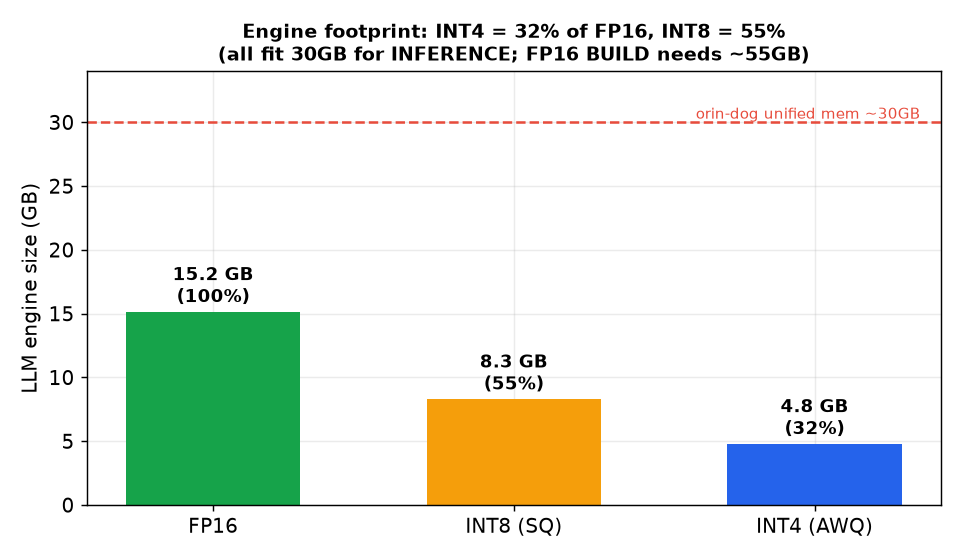
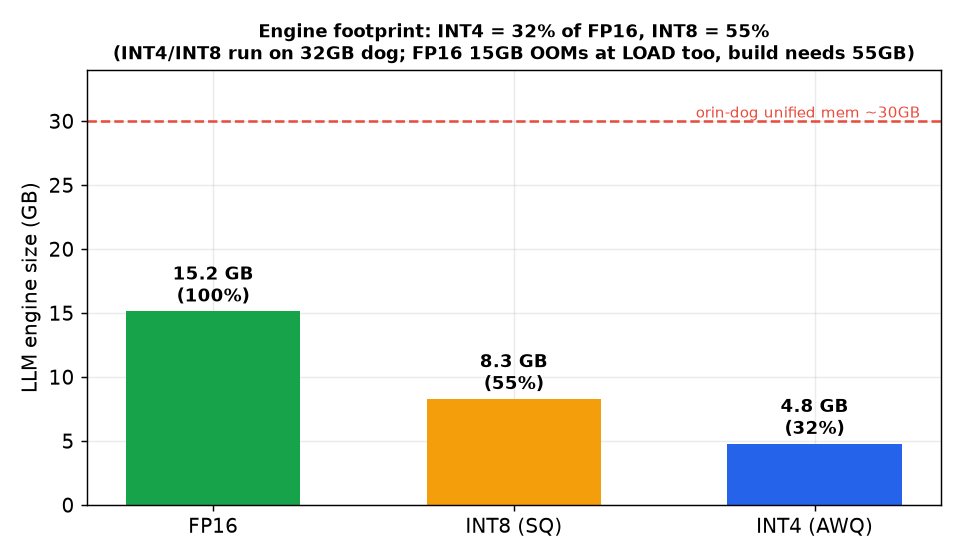
docs/skill: CORRECT FP16-on-dog claim — inference engine (15GB) OOMs at LOAD on 32GB too
Same-LAN goat->dog direct transfer worked (16.4GB, no cap), but FP16 engine deserialize
OOM'd on dog: 15GB device alloc with only ~11GB free (the 15GB engine file's own page cache
eats memory; sudo/drop_caches unavailable). So FP16 is impractical on 32GB dog for BOTH build
(55GB) AND load (~30GB) -> FP16 stays on 64GB goat; dog runs INT4/INT8. Corrected the earlier
'FP16 fits dog inference ~17GB' overclaim across site/edge_deploy/METHODOLOGY/goat_plan/skill +
footprint figure. Strengthens 'quantization is the only deployable option on 32GB'.

diff --git a/alpamayo-edge/site/index.html b/alpamayo-edge/site/index.html
@@ -76,7 +76,7 @@ footer a{color:var(--accent)}
   <p>把 NVIDIA <strong>Cosmos-Reason2-8B</strong>（物理场景推理 VLM，非轨迹预测器，属"感知 + 推理 / 可解释"层）用 <strong>TensorRT-Edge-LLM</strong> 量化为 <strong>INT4 (AWQ)</strong> 与 <strong>INT8 (SmoothQuant)</strong>，部署到 <strong>Jetson Orin (sm_87)</strong> 端到端跑通推理；按标准服务指标（TTFT / TPOT / TPS / E2E）测性能功耗，并在<strong>官方 Cosmos-Reason1-Benchmark（带标准答案）</strong>实测量化对<strong>任务正确率</strong>的影响。<span style="color:var(--muted)">零预算 · 零训练 · 全 Orin。</span></p>
   <p style="margin-bottom:4px"><strong>核心结论：</strong></p>
   <ol style="margin-top:0">
-    <li><strong>量化既提速又降低部署门槛</strong>：decode 比 FP16 快 <strong>2.66×(INT4)/1.70×(INT8)</strong>、E2E 快 2.5×；且 FP16 引擎 build 期需实测 <strong>~55GB 内存</strong>，32GB Orin 装不下(OOM)、须在 64GB 机 build（引擎再拷回 32GB 跑）。</li>
+    <li><strong>量化既提速又是 32GB 边缘的唯一可部署方案</strong>：decode 比 FP16 快 <strong>2.66×(INT4)/1.70×(INT8)</strong>、E2E 快 2.5×；FP16 在 32GB dog 上 build(峰 55GB)与载入(15GB 引擎+缓存)<strong>双双 OOM</strong>，只能在 64GB goat 跑，dog 部署 INT4/INT8。</li>
     <li><strong>量化无显著正确率损失</strong>：真实基准(n=210)上 FP16 76.2% / INT8 75.2% / INT4 73.8%，差异 <strong>全部统计不显著(McNemar p&gt;0.4、95%CI 重叠)</strong>。即量化在任务正确率上几乎无损。</li>
     <li><strong>选型：decode 看 INT4、prefill 看 INT8</strong>——INT4 decode 快 1.57×/更省电/更省显存(−42%)，INT8 prefill 快 1.9×/能效高 2.3×；生成越长 INT4 的 E2E 越占优。</li>
   </ol>
@@ -112,7 +112,7 @@ footer a{color:var(--accent)}
     <figure><img src="figures/bench_throughput.png" alt="throughput"><figcaption><b>横轴</b>：Prefill(512 输入) / Decode(每 token) 两阶段（三精度含 FP16，goat 同机）<br><b>竖轴</b>：吞吐 TPS (tokens/s)<br><b>结果</b>：prefill INT8 比 FP16 快 1.87×、INT4≈FP16；decode INT4 快 2.66×、INT8 快 1.70×（vs FP16）<br><b>分析</b>：<strong>反常点——INT4 prefill 并不比 FP16 快</strong>：prefill 计算密集，INT4(AWQ) 要先把 4bit 权重<strong>反量化回 fp16</strong> 再算，反量化开销抵消了小权重优势；INT8 用<strong>原生 int8 张量核</strong>直接快 1.87×。decode 访存密集(每步搬全部权重)，权重越小越快 → INT4(4.8GB) 2.66×。⇒ prefill 选 INT8，decode/交互选 INT4。</figcaption></figure>
     <figure><img src="figures/bench_power_energy.png" alt="power & energy"><figcaption><b>横轴</b>：Prefill / Decode（三精度含 FP16，goat 同机）<br><b>竖轴</b>：左=整机功耗(瓦，三电轨之和)，右=能效 tokens/J (对数轴)<br><b>结果</b>：decode 能效 FP16 0.42 / INT8 0.90 / INT4 1.31（<strong>INT4 比 FP16 高 3.1×</strong>）<br><b>分析</b>：<strong>反常点——INT4 prefill 功耗反而最高(62.6W&gt;FP16 57.1)、prefill 能效反而最低(26.9&lt;FP16 30.1)</strong>：AWQ 反量化让 GPU 在计算密集的 prefill "忙而无增益"→更费电。但 decode 是访存主导，INT4 权重小、每 token 搬运能耗低 → 能效 3.1× FP16。⇒ AWQ 的能效收益全在 decode，不在 prefill。</figcaption></figure>
     <figure><img src="figures/decode_scaling.png" alt="decode scaling"><figcaption><b>横轴</b>：上下文长度(past-KV token 数，128→4000)<br><b>竖轴</b>：INT4 decode 吞吐 TPS (tokens/s)<br><b>结果</b>：上下文涨 31× 吞吐仅降 9%<br><b>分析</b>：decode 延迟由权重搬运主导、注意力占比小，故长上下文几乎不掉速 ⇒ 适合长对话/长文档</figcaption></figure>
-    <figure><img src="figures/footprint.png" alt="footprint"><figcaption><b>横轴</b>：三精度 LLM 引擎<br><b>竖轴</b>：引擎体积(GB)，红虚线=dog 统一内存 30GB<br><b>结果</b>：FP16 15.2 / INT8 8.3 / INT4 4.8 GB（INT4 = FP16 的 32%）<br><b>分析</b>：三者的<strong>推理</strong>都能装进 dog 的 30GB（引擎+KV+仅 8MB 激活，FP16≈17GB）；<strong>反常点——真正装不下的是 FP16 的 build(编译)：实测峰值 55GB</strong>，故 dog build 不了、须 64GB goat build 再把引擎拷回。省下的显存可留给更长 KV cache 或多模型并存。</figcaption></figure>
+    <figure><img src="figures/footprint.png" alt="footprint"><figcaption><b>横轴</b>：三精度 LLM 引擎<br><b>竖轴</b>：引擎体积(GB)，红虚线=dog 统一内存 30GB<br><b>结果</b>：FP16 15.2 / INT8 8.3 / INT4 4.8 GB（INT4 = FP16 的 32%）<br><b>分析</b>：INT4/INT8 引擎在 dog 从容运行；<strong>FP16(15GB) 在 dog 连载入都 OOM</strong>(引擎+其文件缓存≈30GB 到顶)、build 更需 55GB → FP16 只在 64GB goat 跑。省下的显存可留给更长 KV cache 或多模型并存。</figcaption></figure>
   </div>
   <table>
     <tr><th>标准服务指标（Orin sm_87 / CUDA 12.6.11 / TRT 10.7 / MAXN, batch=1）</th><th>FP16 †</th><th>INT4 (AWQ)</th><th>INT8 (SmoothQuant)</th></tr>
@@ -122,12 +122,12 @@ footer a{color:var(--accent)}
     <tr><td><b>Prefill 吞吐</b></td><td>1718 TPS</td><td>1701 TPS</td><td class="win">3252 TPS</td></tr>
     <tr><td><b>E2E 延迟</b>（512-in + 128-out）</td><td>≈ 11.7 s</td><td class="win">≈ 4.61 s</td><td>≈ 6.87 s</td></tr>
     <tr><td>能效 prefill / decode（tokens·J⁻¹）</td><td>—</td><td>27.5 / <span class="win">0.82</span></td><td><span class="win">62.8</span> / 0.50</td></tr>
-    <tr><td>引擎显存 (VRAM)</td><td>~16 GB<br>推理可行(dog build 期 OOM)</td><td class="win">~4.6 GB</td><td>~7.9 GB</td></tr>
+    <tr><td>引擎显存 (VRAM)</td><td>~15 GB<br>dog build+载入均 OOM</td><td class="win">~4.6 GB</td><td>~7.9 GB</td></tr>
   </table>
   <figure><img src="figures/serving_metrics.png" alt="serving metrics + quantization speedup vs FP16"><figcaption><b>横轴</b>：左=TTFT/TPOT 两指标×三精度，右=三精度<br><b>竖轴</b>：左=延迟(ms)，右=E2E(s)<br><b>结果</b>：decode INT4 比 FP16 快 <strong>2.66×</strong>、INT8 1.70×；prefill INT8 快 1.87×、INT4≈FP16;E2E(512+128) INT4 比 FP16 快 <strong>2.5×</strong>(11.7s→4.6s)<br><b>分析</b>：decode 访存密集→权重越小越快(FP16 16GB→INT4 4.8GB);prefill 计算密集→INT8 原生 int8 核占优、INT4 反量化开销抵消</figcaption></figure>
   <div class="callout ok">
     <div class="t">量化 vs FP16 加速比 —— 及"32GB 装不下 FP16"的真相</div>
-    <strong>为何 FP16 在 32GB 的 dog 上跑不起来?</strong> 不是推理装不下（推理仅需 ~16GB 权重 + <strong>8MB 激活</strong>），而是 <strong>TensorRT build（编译）期内存峰值实测 54.8GB</strong>（在 64GB 的 goat 上测得）——远超 dog 的 30GB → build 被 OOM 杀（exit137）。<strong>解法：在 64GB goat 上 build，引擎（同 sm_87 + 同 TRT 10.7）可拷回 dog 直接跑</strong>。⟹ 量化对 8B 边缘部署<strong>既提速（decode 2.66×）又降低部署门槛</strong>。</div>
+    <strong>为何 FP16 在 32GB 的 dog 上跑不起来?</strong> 不是推理装不下（推理仅需 ~16GB 权重 + <strong>8MB 激活</strong>），而是 <strong>TensorRT build（编译）期内存峰值实测 54.8GB</strong>（在 64GB 的 goat 上测得）——远超 dog 的 30GB → build 被 OOM 杀（exit137）。<strong>实测</strong>：FP16 引擎(15GB)在 32GB dog 上<strong>连载入都 OOM</strong>（deserialize 申请 15GB 时仅 ~11GB free，引擎文件自身页缓存把内存吃到 30GB 边缘）→ <strong>FP16 在 32GB 机 build 和 run 都不可行</strong>。故 FP16 只在 64GB goat 上跑(作参考基线)，dog 部署 INT4/INT8。⟹ 量化对 8B 边缘部署<strong>既提速(decode 2.66×)又是唯一可部署方案</strong>。</div>
   <p style="font-size:12.5px;color:var(--muted)">† FP16 在 orin-goat(64GB) build+跑（dog 无法 build）；INT4/INT8 表中为 orin-dog 数据。两机 INT4/INT8 实测差异 &lt;3%（已跨设备复现），加速比取 goat 同机测量。</p>
   <p style="font-size:13.5px;margin-bottom:2px"><strong>补充 sweep 与多模态（INT4）：</strong></p>
   <ul style="font-size:13.5px;color:var(--muted);margin-top:0">
@@ -203,7 +203,7 @@ footer a{color:var(--accent)}
   <h3>诚实的边界</h3>
   <ul>
     <li><strong>基准范围</strong>：用 <strong>Cosmos-Reason1-Benchmark 的 robovqa+robofail（n=210，具身机器人推理，非驾驶）</strong>——这是 repo 内<strong>自带视频</strong>的全部；其余 3 子集(agibot/bridgev2/holoassist，共 300)仅有标注、视频需从外部源数据集下载匹配，官方 AV 子集未发布 → 全 510 需外部视频流水线(future work)。<strong>无 Cosmos-Reason2-Benchmark（不存在），故用同族的 R1-Benchmark 评测 R2 模型（标准做法）</strong>。视频按 6 帧@448 采样（非官方原生协议，绝对分不追求复现论文；三精度同帧→掉点可比）。</li>
-    <li><strong>FP16 基线跨设备取得</strong>：FP16 引擎在 32GB dog build 期 OOM（峰值 55GB），改在 <strong>64GB orin-goat</strong> build+跑得到 TTFT/TPOT；INT4/INT8 两机差异 &lt;3%（已交叉复现），故加速比取 goat 同机测量，代表性良好。</li>
+    <li><strong>FP16 只能在 64GB goat 跑</strong>：32GB dog 上 FP16 既 build OOM(55GB)、载入也 OOM(15GB 引擎+缓存到顶) → FP16 的 TTFT/TPOT 在 goat 测；INT4/INT8 两机 &lt;3% 已交叉复现，加速比取 goat 同机测量。</li>
     <li><strong>无轨迹预测</strong>：ADE/FDE vs CVM 属于 VLA 轨道（Alpamayo-R1-10B FP16），大工程，暂缓。</li>
     <li><strong>校准集</strong>：默认通用新闻(cnn_dailymail 512)。<strong>已做域内校准消融</strong>：域内小集反而使 INT8 暴跌(+244% ppl)→ 覆盖度/质量比域匹配更关键，默认选择得验证(消融含"域 vs 规模"confound)。</li>
     <li>量化标的从 Alpamayo 改为 Cosmos，因 Alpamayo 只支持 FP16、不能量化（工具硬约束）。</li>

diff --git a/alpamayo-edge/eval/bench_viz.py b/alpamayo-edge/eval/bench_viz.py
@@ -96,8 +96,8 @@ for r, v, pc in zip(b, sz, ["100%", "55%", "32%"]):
 ax.axhline(30, color="#e74c3c", lw=1.4, ls="--")
 ax.annotate("orin-dog unified mem ~30GB", (2.35, 30), color="#e74c3c", fontsize=8.5, va="bottom", ha="right")
 ax.set_ylabel("LLM engine size (GB)"); ax.set_ylim(0, 34)
-ax.set_title("Engine footprint: INT4 = 32% of FP16, INT8 = 55%\n(all fit 30GB for INFERENCE; FP16 BUILD needs ~55GB)",
-             fontweight="bold", fontsize=10.5)
+ax.set_title("Engine footprint: INT4 = 32% of FP16, INT8 = 55%\n(INT4/INT8 run on 32GB dog; FP16 15GB OOMs at LOAD too, build needs 55GB)",
+             fontweight="bold", fontsize=10)
 fig.tight_layout(); fig.savefig(os.path.join(OUT, "footprint.png")); plt.close(fig)
 
 # ---- Fig 5: quantization accuracy drop-off vs FP16 (eval/accuracy/) ----

diff --git a/.claude/skills/edge-quantize-deploy/SKILL.md b/.claude/skills/edge-quantize-deploy/SKILL.md
@@ -11,15 +11,15 @@ description: 把 HuggingFace LLM/VLM 用 NVIDIA TensorRT-Edge-LLM 量化(INT4 AW
 
 ## 推荐部署架构（三层分工）—— build 与 inference 分离
 
-**核心规律：TensorRT 的 build(编译) 远比 inference(执行) 吃内存**（build 峰值 ≈ 权重 ×2–3；实测 FP16 build 峰 **54.8GB**，而 FP16 推理仅 **~17GB**、运行时激活仅 **8MB**）。故按机器资源分工：
+**核心规律：TensorRT 的 build(编译) 远比 inference(执行) 吃内存**（build 峰值 ≈ 权重 ×2–3；实测 FP16 build 峰 **54.8GB**，运行时激活仅 8MB）。**但"推理更省"仍受总内存约束**：载入 N GB 引擎时，其文件页缓存 + N GB 设备分配 ≈ 2N，故 **15GB 的 FP16 引擎在 32GB dog 上 deserialize 即 OOM**（实测）。⟹ 按机器资源分工：
 
 | 阶段 | 机器 | 为什么 |
 |---|---|---|
 | ① 量化 / 导出 ONNX | **Kaggle 2×T4（免费，一次性）** | 需下门控模型(16GB)+校准计算；本地/边缘装不下 |
 | ② build 引擎（尤其 FP16） | **大内存 Orin（goat 64GB）** | FP16 build 峰 ~55GB，32GB dog 会 **OOM(exit137)**；INT4/INT8(峰<30GB)哪台都行 |
-| ③ 跑推理 / 服务 | **目标 Orin（dog 32GB）** | 推理只需 引擎+KV+8MB 激活（FP16≈17GB<30GB），从容 |
+| ③ 跑推理 / 服务 | **目标 Orin（dog 32GB）** | 跑**量化引擎**(INT4 4.8/INT8 8.3GB)从容；**FP16(15GB) 连载入都 OOM**（引擎+其文件页缓存≈30GB 到顶）→ FP16 留 goat |
 
-**引擎可移植的前提（务必核对，否则不通用）**：build 机与 run 机需 **① 同 GPU 架构(都 sm_87) ② 同 TensorRT 版本(都 10.7.0.23) ③ 同 TRTEdge/插件 build(同 commit)**。满足则 goat build 的 `.engine` 直接拷到 dog 跑（实测 INT4/INT8 两机 <3%）；甚至 goat 编好的**二进制+插件**可直接拷到另一台同栈机免重编。任一不符 → 必须在目标机 build（FP16 则无解，除非目标机内存够）。
+**引擎可移植的前提（务必核对，否则不通用）**：build 机与 run 机需 **① 同 GPU 架构(都 sm_87) ② 同 TensorRT 版本(都 10.7.0.23) ③ 同 TRTEdge/插件 build(同 commit)**。满足则 goat build 的 `.engine` 拷到 dog 跑（实测 INT4/INT8 两机 <3%；goat 编好的**二进制+插件**也可直拷免重编）。**但引擎必须小到能载入目标机**：15GB 的 FP16 引擎在 32GB dog 上 deserialize 即 OOM(引擎+文件页缓存≈30GB)——所以 dog 只跑 INT4/INT8，FP16 留 64GB goat。任一不符 → 必须在目标机 build（FP16 则无解，除非目标机内存够）。
 
 **存储**：build 机是**临时工**——拉 ONNX → build → 导出 `.engine` → 即清理，别长期囤大件（goat 盘紧）。长期产物（ONNX/引擎/日志）归档到有空间处（云 / dog / 本地）。
 

diff --git a/alpamayo-edge/docs/edge_deploy_status.md b/alpamayo-edge/docs/edge_deploy_status.md
@@ -81,7 +81,7 @@ Kaggle(T4x2) 量化+导出 → 打包 → 下载/校验 → scp 到 Orin → TRT
 
 视频按 6 帧(≤448px)采样作多图，FP16(云端 PyTorch)/INT8/INT4(Orin) **同帧**→掉点严格可比。**统计检验:CI 重叠、McNemar p>0.4 → 差异不显著(n=210；robovqa 88.2%+robofail 63%)** → 稳妥结论是**量化无显著任务正确率损失**(非精确"掉 0.9pts")。方法/口径见 [METHODOLOGY.md](METHODOLOGY.md) §3.3；产物 `eval/accuracy/benchmark/`。robovqa 子集(具身机器人推理，非驾驶)、6帧@448 非官方原生视频协议——绝对分不追求复现论文。
 
-> **FP16 基线（经 64GB orin-goat 补全）+ 量化加速比**：FP16 引擎在 32GB dog `llm_build` 期 OOM（**峰值实测 54.8GB**，远超 30GB；运行时激活仅 8MB → 是 build 内存墙、非推理）。改在 **64GB orin-goat** build+跑得同机三方：TTFT FP16 298 / INT8 159 / INT4 305 ms，TPOT FP16 89.3 / INT8 52.4 / INT4 33.6 ms。**decode 加速 vs FP16：INT4 2.66×、INT8 1.70×；prefill：INT8 1.87×、INT4≈FP16；E2E(512+128) 11.7→4.6s(2.5×)**。引擎同 sm_87+TRT10.7 可拷回 dog 跑（推理 ~17GB）。跨设备 INT4/INT8 两机 <3% 已复现。**能效(goat 同机,tok/J)**:decode FP16 0.42/INT8 0.90/INT4 1.31 → INT4 decode 能效比 FP16 高 **3.1×**;prefill FP16 30.1/INT8 62.0/INT4 26.9。详见 `eval/perf/fp16_speedup_goat.json`、[orin_goat_migration_plan.md](orin_goat_migration_plan.md)。
+> **FP16 基线（经 64GB orin-goat 补全）+ 量化加速比**：FP16 引擎在 32GB dog `llm_build` 期 OOM（**峰值实测 54.8GB**，远超 30GB；运行时激活仅 8MB → 是 build 内存墙、非推理）。改在 **64GB orin-goat** build+跑得同机三方：TTFT FP16 298 / INT8 159 / INT4 305 ms，TPOT FP16 89.3 / INT8 52.4 / INT4 33.6 ms。**decode 加速 vs FP16：INT4 2.66×、INT8 1.70×；prefill：INT8 1.87×、INT4≈FP16；E2E(512+128) 11.7→4.6s(2.5×)**。**实测:FP16 引擎(15GB)在 32GB dog 连载入都 OOM**(deserialize 申请 15GB 时仅 ~11GB free,引擎文件页缓存吃满)→ FP16 build 与 load 在 32GB 上双双不可行,只在 64GB goat 跑;dog 部署 INT4/INT8。跨设备 INT4/INT8 两机 <3% 已复现。**能效(goat 同机,tok/J)**:decode FP16 0.42/INT8 0.90/INT4 1.31 → INT4 decode 能效比 FP16 高 **3.1×**;prefill FP16 30.1/INT8 62.0/INT4 26.9。详见 `eval/perf/fp16_speedup_goat.json`、[orin_goat_migration_plan.md](orin_goat_migration_plan.md)。
 
 ### 辅：细粒度 perplexity 探针（12 prompt）
 

diff --git a/alpamayo-edge/docs/orin_goat_migration_plan.md b/alpamayo-edge/docs/orin_goat_migration_plan.md
@@ -1,7 +1,7 @@
 # orin-goat (64GB) 迁移与 FP16 补全计划
 
 > **状态(2026-07-24):核心已完成** ✅ —— FP16 引擎在 goat build 成功(峰值 54.8GB)、测得性能+功耗;同机三方加速比 decode INT4 2.66×/INT8 1.70×、E2E 2.5×;跨设备 INT4/INT8 与 dog <3% 复现。结果见 `eval/perf/fp16_speedup_goat.json`。
-> **未完成的一项(Phase 4.5)**:把 FP16 引擎拷回 dog 实跑——因 **goat 出站大文件传输被截断在 ~4.6GB**(Mac→goat 入站正常,goat 上行受限)未完成。"FP16 推理装得下 dog 30GB"以**内存账**为据(引擎 15.15GB + 实测激活 8MB + KV ~1.2GB ≈ 17GB),非 dog 实跑。goat 上完整引擎保留在 `/home/nvidia/chenrunbin.crb/`,后续可用同 LAN 直传补做。
+> **未完成的一项(Phase 4.5)**:把 FP16 引擎拷回 dog 实跑——因 **goat 出站大文件传输被截断在 ~4.6GB**(Mac→goat 入站正常,goat 上行受限)未完成。**已用同 LAN 直传补做(2026-07-24)**:引擎经内网 goat→dog 直传成功(16.4GB,无截断),但 **FP16 引擎在 dog 载入即 OOM**(deserialize 申请 15GB,删 tar 后仅 ~11GB free;引擎文件自身页缓存把 30GB 吃满,sudo 无密码无法 drop cache)。**结论修正:FP16 在 32GB dog 上 build(55GB)与 load(15GB+缓存≈30GB)双双不可行** → FP16 只在 64GB goat 跑作参考,dog 部署 INT4/INT8。这让"量化是 32GB 边缘唯一可部署方案"更硬。
 
 **目标**:利用 64GB 的 orin-goat 建出 FP16 引擎（32GB 的 orin-dog 因 build 期 OOM 建不出），**补上缺失的 FP16 性能基线（量化 vs FP16 加速比）**，并做**跨设备复现**验证。
 
@@ -12,7 +12,7 @@
 
 ## 关键判断：引擎可移植性
 TRT 引擎绑定 **GPU 架构 + TensorRT 版本**。两机同为 sm_87：
-- **若 goat 的 TensorRT 版本 = dog 的 10.7.0.23** → 在 goat build 的 `.engine` **可拷回 dog 直接跑**（FP16 推理仅需 ~17GB，dog 的 30GB 够）。
+- **若 goat 的 TensorRT 版本 = dog 的 10.7.0.23** → 在 goat build 的 `.engine` **可拷回 dog 跑**（INT4/INT8 实测通过，两机 <3%）。**注：FP16 引擎(15GB)拷回 dog 载入即 OOM**（见顶部状态），故 FP16 只在 goat 跑。
 - **若版本不同** → 引擎不通用，但可在 goat 本机 build+跑（64GB 足够 build）。
 
 ## Phase 0 — 侦察 goat（登上后第一步）

diff --git a/alpamayo-edge/docs/METHODOLOGY.md b/alpamayo-edge/docs/METHODOLOGY.md
@@ -55,7 +55,7 @@ llm_bench --engineDir engines/int4/llm --mode decode  --pastKVLen 512 --iteratio
 - 引擎构建参数(三版一致,来自 `LLMEngineConfig` 日志):`maxBatch=4 maxInputLen=1024 maxKVCapacity=4096`。
 - **可复现性验证(2026-07-22 重跑 INT4)**:prefill `301.22 ± 0.26 ms / 1699.7 tok·s`、decode `33.93 ± 6.89 ms / 29.5 tok·s`,与首测(300.98 ms/1701、32.34 ms/30.9)在 run-to-run 噪声内一致(decode 单步方差天然大)。
 - **标准服务指标映射**:**TTFT**(首 token 延迟)= prefill E2E(随输入长度变化,INT4 128/512/1024-token ≈ 86/301/595 ms);**TPOT/ITL** = decode 单 token 延迟;**输出 TPS** = 1000/TPOT;**E2E**(512-in+128-out)= TTFT + 128·TPOT(INT4 ≈ 4.44 s、INT8 ≈ 6.64 s)。
-- **FP16 基线(64GB orin-goat 补全)**:32GB dog build 期 OOM(**峰值实测 54.8GB**>30GB;运行时激活仅 8MB→是 build 内存墙非推理)。在 64GB goat build+跑:TTFT 298/TPOT 89.3ms。**decode 加速 vs FP16:INT4 2.66×/INT8 1.70×;prefill INT8 1.87×/INT4≈FP16;E2E 2.5×**。引擎同 sm_87+TRT10.7 可拷回 dog(推理~17GB)。跨设备 INT4/INT8 <3% 复现。见 `eval/perf/`。
+- **FP16 基线(64GB orin-goat 补全)**:32GB dog build 期 OOM(**峰值实测 54.8GB**>30GB;运行时激活仅 8MB→是 build 内存墙非推理)。在 64GB goat build+跑:TTFT 298/TPOT 89.3ms。**decode 加速 vs FP16:INT4 2.66×/INT8 1.70×;prefill INT8 1.87×/INT4≈FP16;E2E 2.5×**。**实测 FP16 在 32GB dog 连载入都 OOM**(15GB 引擎+其文件页缓存≈30GB 到顶)→ FP16 build+load 在 32GB 双双不可行,只在 64GB goat 跑;dog 部署 INT4/INT8。跨设备 INT4/INT8 <3% 复现。见 `eval/perf/`。
 
 ### 3.2 功耗 / 能效 —— `tegrastats`
 - 在 bench 运行期采样 `tegrastats`,日志留档 `pw_int4_pre.log`/`pw_int4_dec.log`/`pw_int8_*`。
